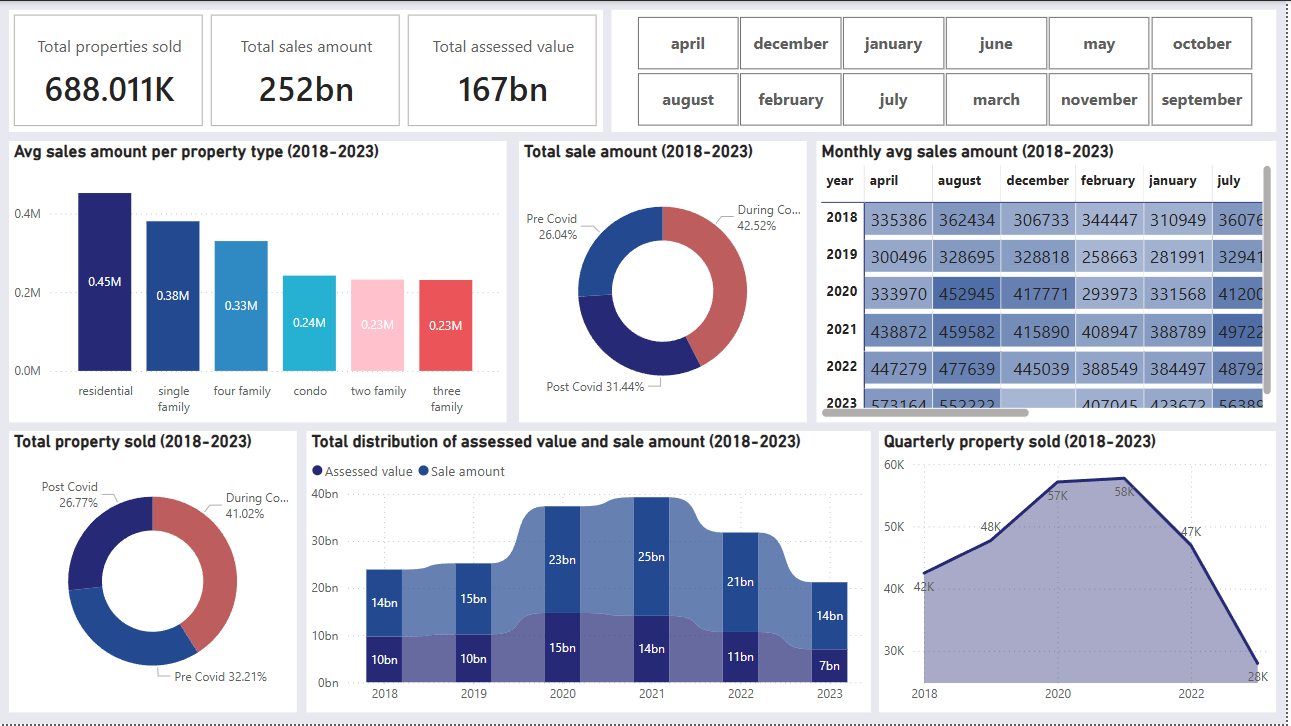
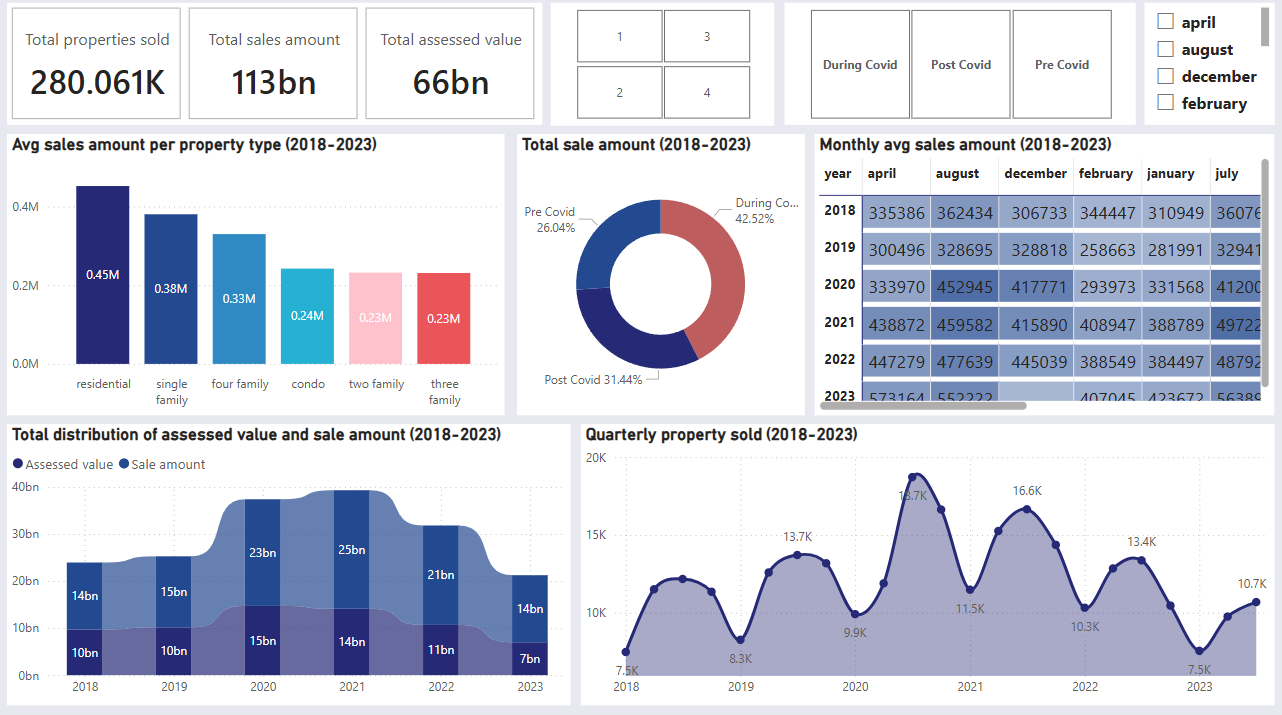
Temporary commit

diff --git a/readme.md b/readme.md
@@ -1,0 +1,121 @@
+## 📄 About the Dataset
+The dataset was sourced from **Kaggle** and originally contained approximately **1 million** records of real estate transactions.
+
+- For github's storage restrictions, I uploaded a sample of the data in the `\data` field. 
+
+> Download the dataset:
+![Link of the dataset](https://drive.google.com/open?id=16NAgq64JgW7JhgnNT0FSgh0hO-6cIdMZ&usp=drive_fs)
+
+During initial exploration, several columns were found to be heavily skewed or sparsely populated:
+
+- Columns like **Geo Location**, **OPM Remarks**, and others had over 70% missing values.
+
+- One column had nearly **98%** nulls, making it unfit for meaningful analysis.
+
+- Some columns such as property_type and residential_type had around 30% of null. Had to drop those nulls because it was hard to impute and also imputation may've caused data distortion.
+
+To ensure data integrity and maintain a clean, analysis-ready structure, all such columns were dropped.
+
+
+## 🧹 Data Cleaning Process
+
+The dataset underwent a comprehensive cleaning process using Python (Pandas), with special attention given to preserving business logic and preparing the data for warehousing.
+
+Key cleaning steps included:
+
+- 1. Replaced the existing `serial_id` (not consistently unique) with a custom surrogate key `fact_id` in the `fact_property` table to support star schema best practices.
+
+- 2. Handled missing values:
+  - Columns like `date_recorded` and `address` had <1% nulls — imputed using `mode()` instead of dropping rows.
+
+- 3. Created a new derived column:
+  - `assessed_vs_sales_pct` – to calculate the percentage difference between assessed value and sale price.
+
+- 4. Dropped low-quality records:
+  - Years(date recorded) with fewer than 10 property sales were removed due to potential data entry issues.
+
+- 5. Normalized property classification:
+  - The dataset had overlapping values in `property_type` and `residential_type`.
+  - Cleaned and retained `residential_type` only for rows where `property_type = 'residential'`.
+  - Flagged non-residential entries in `residential_type` as `"Non Residential"` to maintain completeness.
+
+- 6. Outlier Detection:
+  - Used the **IQR (Interquartile Range)** method to detect spread in `assessed_value`, `sale_amount`, and `town`.
+  - Instead of dropping outliers:
+    - Flagged unusually low or high values in `assessed_value` and `sale_amount` (e.g., < ₹1,000 or > ₹1,00,00,000).
+    - Flagged outlier towns as `"town_outlier"` to retain rare but valid real estate behavior.
+
+> ** Real estate data is often unpredictable due to market variability — so records were **flagged** instead of removed to retain analytical value.
+
+---
+
+###  Post-Cleaning Result
+
+- Reduced dataset size from **~1 million** to **~600,000** high-quality, cleaned records.
+- Final dataset is structured, statistically profiled, and ready for warehouse modeling and proper analysis.
+- Used **SQLAlchemy** with Pandas' `to_sql()` method to load the cleaned data into a SQL database as part of the data warehouse pipeline.
+
+
+## ⚒ Data Warehouse Creation
+
+I chose **star schema** for schema design in SQL for structured, scalable analysis and future BI tools integration.
+
+The final warehouse consists of:
+
+- `fact_property` — central fact table containing transactional-level property sales data
+- `dim_property` — descriptive attributes of the property (e.g., property_type, residential_type)
+- `dim_location` — location-based details (e.g., town, address)
+- `dim_date` — custom-built date dimension derived from the `date_recorded` column, used to enable time-based slicing in tools like Power BI
+- `Indexes` on frequently used joining columns(e.g. property_id) and some descriptive columns(e.g. property_type) to improve performance while querying data
+
+###  Why Star Schema?
+
+A **star schema** is one of the most effective data modeling techniques in data warehousing for the following reasons:
+
+- 1. Simplifies complex queries for reporting and dashboarding
+- 2. Optimizes performance through de-normalized dimension tables
+- 3. Easy to join using surrogate keys (fact-to-dimension)
+- 4. Well-supported by BI tools like Power BI, Tableau, and Looker
+
+Below is a diagram of the data warehouse:
+
+![Star schema diagram](pngs/DW%20schema.png)
+
+---
+
+##  Power BI Dashboard
+
+Even though this was primarily a data warehouse and ETL-focused project, I performed some analysis in **Power BI** to demonstrate the usefulness of the warehouse design for downstream reporting.
+
+###  Dashboard Screenshots
+
+###  COVID-Time Analysis
+
+![COVID Analysis](pngs/Covid%20analysis.png)
+
+> This time-based analysis focuses on the period from **2018 to 2023**, capturing pre-COVID, during-COVID, and post-COVID patterns in the real estate market.
+
+###  Key Insights
+
+1. A total of **$113B** in property sales occurred between 2018–2023, covering **44.84%** of the full dataset's timespan — highlighting the significant economic impact COVID had on real estate market behavior.
+Also, 
+
+2. **Residential** properties saw the highest average sale amount (~$450,000), followed by **Single Family** homes (~$380,000). This may reflect financial stress among property holders, as individuals potentially liquidated high-value assets during the COVID era.
+
+3. All four quarters in both **2020** and **2021** had the **highest count of property sales** across all years — suggesting a spike in property transactions during COVID. These two years also emerged as **outliers** in the IQR distribution, indicating a burst-like activity in the housing market.
+
+4. From the pie chart titled *“Total Sales Amount (2018–2023)”*, the majority of sales (~**42.52%**) occurred **during COVID**. Sales declined to a normal level in the **post-COVID** period, contributing **31.44%** of the total.
+
+5. The ribbon chart showing *Assessed Value vs. Sale Amount* distribution revealed a highlighting shifts between **2019 and 2020**, where:
+   - Sale amounts increased by **50.24%**
+   - Assessed values increased by **44.66%**
+   Showing a quick shift of the market, creating more unpredictability of the market at that time.
+
+6. Over the 6-year span, **Q2–Q3** consistently showed the most growth in sales volume and pricing, while **Q4** (winter period) often experienced a decline following **(Q3)**, Showing how Q2 and Q3 offered stable growth in the real estate market for individuals.
+
+
+
+> 📥 To view the full interactive dashboard, please download the Power BI file:  
+[Download PBIX Report](dashboards/real%20estate%20dashboard.pbix)
+
+
